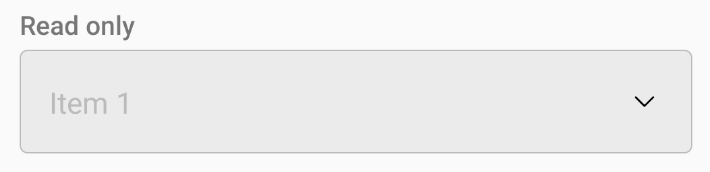
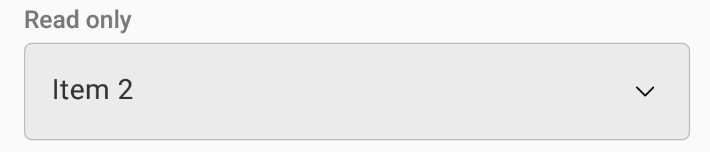
fix: fixes behavor to define color to item selected at Select component

diff --git a/sample/src/main/kotlin/com/natura/android/sample/components/SelectActivity.kt b/sample/src/main/kotlin/com/natura/android/sample/components/SelectActivity.kt
@@ -2,8 +2,12 @@ package com.natura.android.sample.components
 
 import android.os.Bundle
 import android.view.MenuItem
+import android.view.View
+import android.view.ViewGroup
 import android.widget.ArrayAdapter
+import android.widget.TextView
 import androidx.appcompat.app.AppCompatActivity
+import com.natura.android.resources.getColorTokenFromTheme
 import com.natura.android.sample.R
 import com.natura.android.sample.databinding.ActivitySelectBinding
 import com.natura.android.sample.setChosenDefaultTheme
@@ -21,8 +25,28 @@ class SelectActivity : AppCompatActivity() {
 
         setContentView(binding.root)
 
-        val arraySpinner = listOf("Item 1", "Item 2", "Item 3", "Item 4")
-        val arrayAdapter = ArrayAdapter(this, R.layout.custom_spinner_dropdown_item, arraySpinner)
+        val arraySpinner = listOf("Placeholder", "Item 1", "Item 2", "Item 3")
+
+        val arrayAdapter = object :
+            ArrayAdapter<String>(this, R.layout.custom_spinner_dropdown_item, arraySpinner) {
+
+            override fun isEnabled(position: Int): Boolean {
+                return position != 0
+            }
+
+            override fun getDropDownView(
+                position: Int,
+                convertView: View?,
+                parent: ViewGroup
+            ): View {
+                val view: TextView =
+                    super.getDropDownView(position, convertView, parent) as TextView
+                if (position == 0) {
+                    view.setTextColor(getColorTokenFromTheme(context, R.attr.colorMediumEmphasis))
+                }
+                return view
+            }
+        }
 
         binding.selectDefault.spinner.adapter = arrayAdapter
         binding.selectDisabled.spinner.adapter = arrayAdapter
@@ -31,10 +55,14 @@ class SelectActivity : AppCompatActivity() {
         binding.selectRequired.spinner.adapter = arrayAdapter
         binding.selectWithError.spinner.adapter = arrayAdapter
         binding.selectWithSuccess.spinner.adapter = arrayAdapter
-        binding.selectReadOnly.spinner.adapter = arrayAdapter
         binding.selectHelperText.spinner.adapter = arrayAdapter
 
         binding.selectHelperText.spinner.selectedItem.toString()
+
+        (binding.selectReadOnly.spinner).apply {
+            this.adapter = arrayAdapter
+            this.setSelection(2)
+        }
 
         supportActionBar?.setDisplayHomeAsUpEnabled(true)
         supportActionBar?.title = "Select"

diff --git a/designsystem/src/main/kotlin/com/natura/android/select/Select.kt b/designsystem/src/main/kotlin/com/natura/android/select/Select.kt
@@ -166,6 +166,22 @@ class Select : ConstraintLayout {
         inputValue.isFocusableInTouchMode = true
         inputValue.setOnFocusChangeListener { _, hasFocus -> onFocusChanged(hasFocus) }
 
+        inputValue.onItemSelectedListener = object : AdapterView.OnItemSelectedListener {
+            override fun onNothingSelected(parent: AdapterView<*>?) {
+            }
+
+            override fun onItemSelected(
+                parent: AdapterView<*>?,
+                view: View?,
+                position: Int,
+                id: Long
+            ) {
+                if (position == 0) {
+                    (view as TextView).setTextColor(getColorTokenFromTheme(context, R.attr.colorMediumEmphasis))
+                }
+            }
+        }
+
         getAttributes()
 
         typedArray.recycle()
